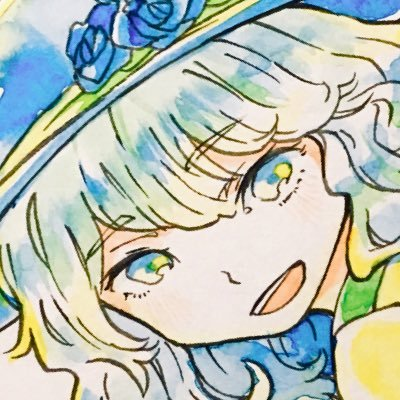
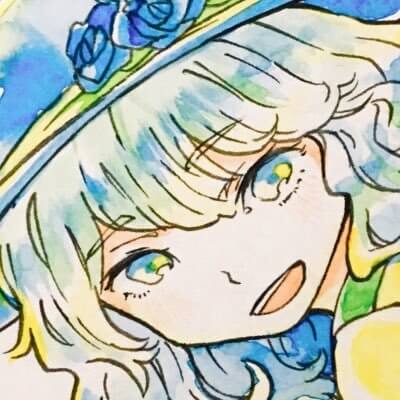
画像類圧縮

diff --git a/src/components/organisms/Portrait.tsx b/src/components/organisms/Portrait.tsx
@@ -1,5 +1,5 @@
 import tw, { css } from 'twin.macro'
-import shimahi from 'assets/shimahi.jpg'
+import topImage from 'waterfall.png'
 
 export const Portrait = () => {
   return (
@@ -14,7 +14,7 @@ export const Portrait = () => {
         }
       `}
     >
-      <img src={shimahi} width={192} height={192} alt="me" tw="w-full h-auto md:w-48" />
+      <img src={topImage} width={192} height={192} alt="me" tw="w-full h-auto md:w-48" />
     </div>
   )
 }
